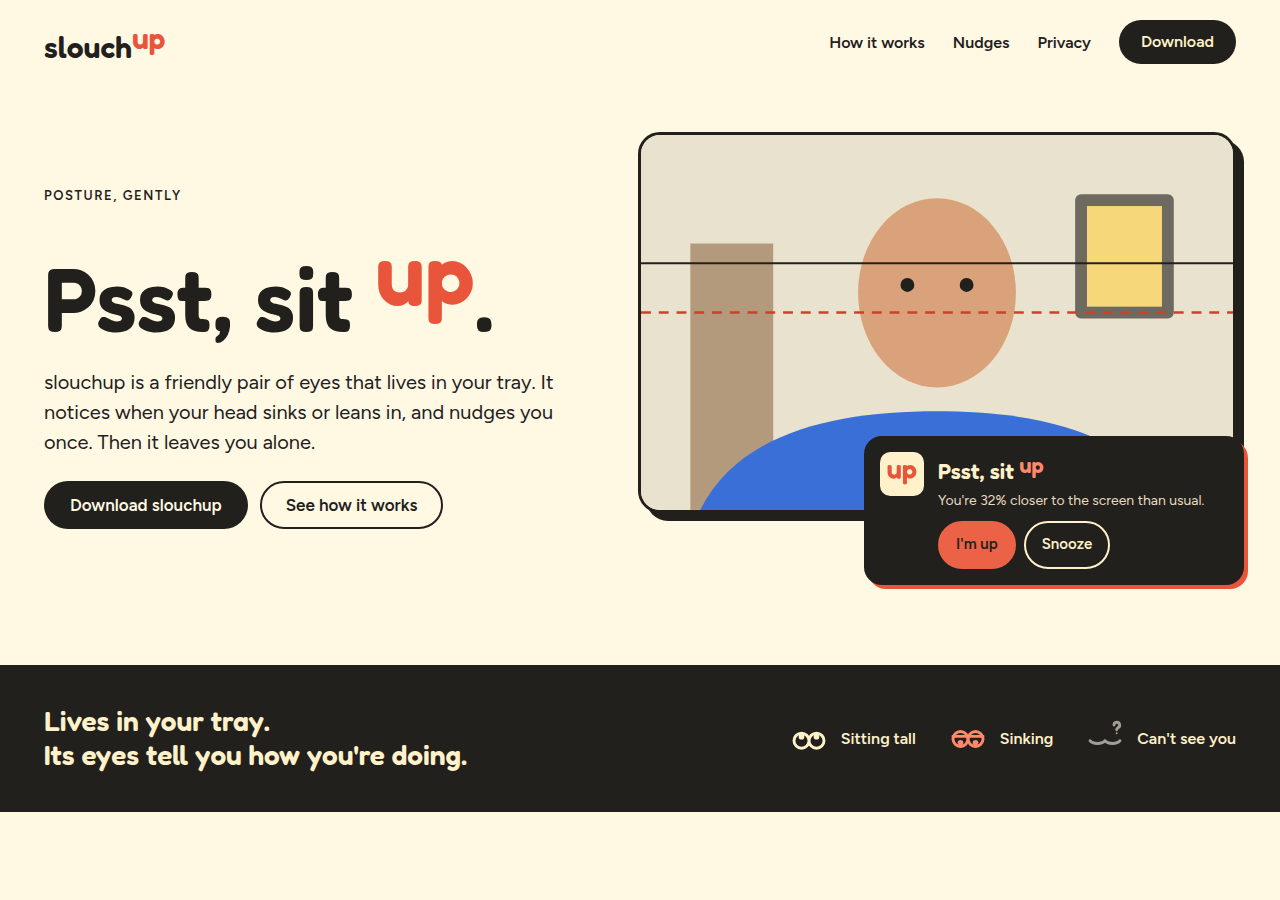
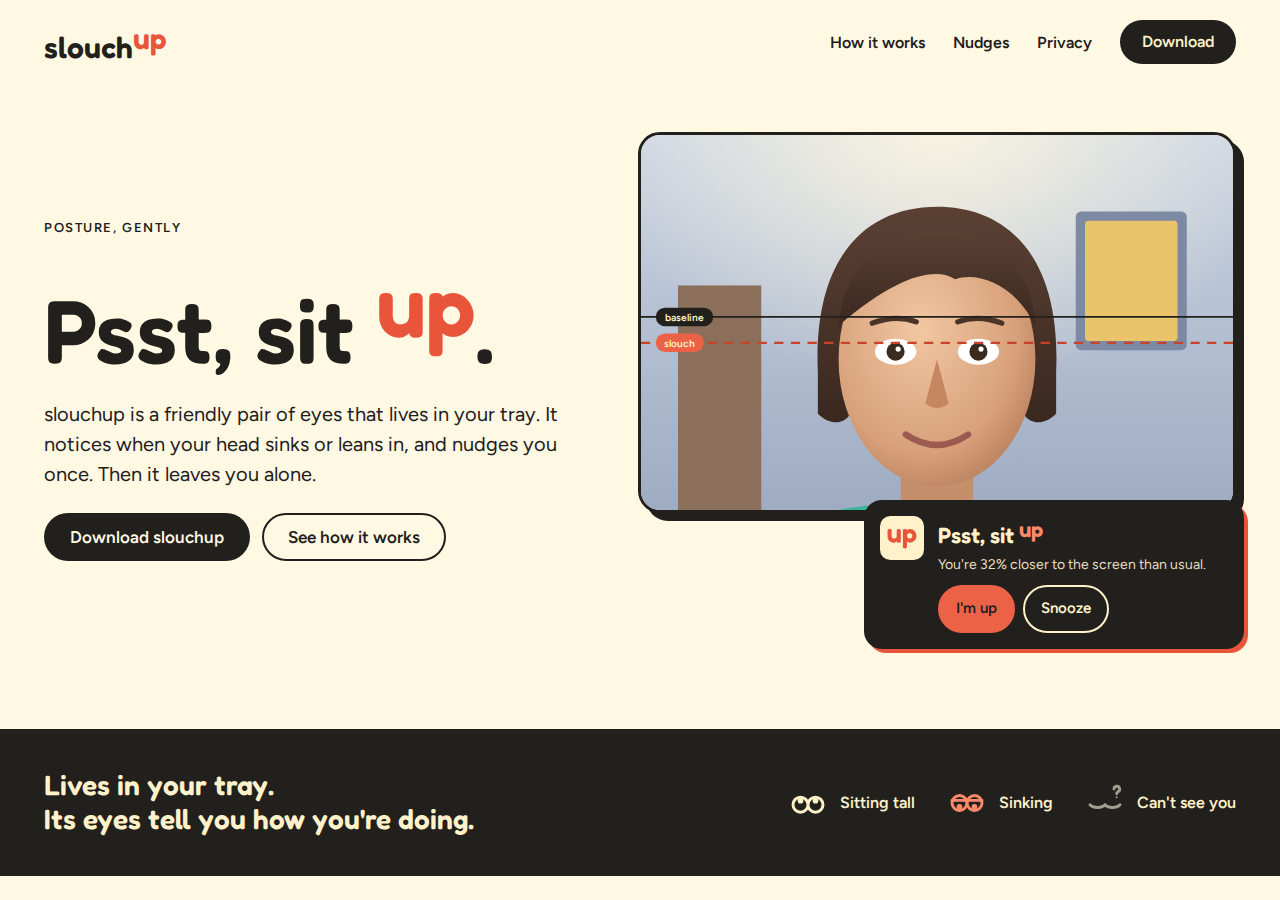
Homepage hero redrawn with the demo person
The homepage drew its own person, plainer than the one in the README screenshots.
- The hero draws the app's demo person leaning in, from the same SVG the demo uses
- Its baseline and slouch lines are labelled, as in the camera window
- The nudge overlaps the picture's bottom edge instead of the person's face

Claude-Session: https://claude.ai/code/session_018qmWg22Aba3GmdpsBF9CRo

diff --git a/www/src/brand/person.ts b/www/src/brand/person.ts
@@ -1,0 +1,20 @@
+// The app's demo person in their room, from the same drawing the README screenshots show.
+
+import drawing from "../../../crates/slouch-app/src/person.svg?raw";
+
+export type Pose = "upright" | "slump" | "lean";
+
+/** How far each pose sinks and how close it comes, as the app's demo acts them out. */
+const shapes: Record<Pose, { sink: number; scale: number }> = {
+  upright: { sink: 0, scale: 1 },
+  slump: { sink: 80, scale: 1 },
+  lean: { sink: 40, scale: 1.4 },
+};
+
+/** The eye line of the upright pose, in the drawing's 640×480 frame. */
+export const BASELINE = 234;
+
+export function person(pose: Pose): string {
+  const { sink, scale } = shapes[pose];
+  return drawing.replace("{cy}", String(240 + sink)).replace("{scale}", String(scale));
+}

diff --git a/crates/slouch-app/src/demo.rs b/crates/slouch-app/src/demo.rs
@@ -116,37 +116,15 @@ impl Shape {
     }
 }
 
+/// The person and their room, with `{cy}` and `{scale}` left for the pose. The homepage draws
+/// the same file.
+const PERSON: &str = include_str!("person.svg");
+
 fn person_svg(shape: Shape) -> String {
     let Shape { sink, scale } = shape;
-    format!(
-        r##"<svg xmlns="http://www.w3.org/2000/svg" viewBox="0 0 640 480">
-<defs>
-<linearGradient id="wall" x1="0" y1="0" x2="0" y2="1"><stop offset="0" stop-color="#cfd8e6"/><stop offset="1" stop-color="#9aa8bf"/></linearGradient>
-<radialGradient id="lamp" cx="0.5" cy="0.05" r="0.6"><stop offset="0" stop-color="#fff8e1" stop-opacity="0.9"/><stop offset="1" stop-color="#fff8e1" stop-opacity="0"/></radialGradient>
-<radialGradient id="skin" cx="0.42" cy="0.38" r="0.7"><stop offset="0" stop-color="#f1c7a2"/><stop offset="0.7" stop-color="#d7a07a"/><stop offset="1" stop-color="#b47c59"/></radialGradient>
-<radialGradient id="shirt" cx="0.5" cy="0.2" r="0.9"><stop offset="0" stop-color="#3fc9a8"/><stop offset="1" stop-color="#1d7f74"/></radialGradient>
-<linearGradient id="hair" x1="0" y1="0" x2="0" y2="1"><stop offset="0" stop-color="#5b4033"/><stop offset="1" stop-color="#3a281f"/></linearGradient>
-</defs>
-<rect width="640" height="480" fill="url(#wall)"/>
-<rect width="640" height="480" fill="url(#lamp)"/>
-<rect x="470" y="120" width="120" height="150" rx="6" fill="#7d8aa3"/><rect x="480" y="130" width="100" height="130" rx="4" fill="#e9c46a"/>
-<rect x="40" y="200" width="90" height="280" fill="#8b6f5a"/>
-<g transform="translate(320 {cy}) scale({scale}) translate(-320 -240)">
-<path d="M120 480 C130 380 210 350 320 350 C430 350 510 380 520 480 L520 640 L120 640 Z" fill="url(#shirt)"/>
-<rect x="292" y="300" width="56" height="70" rx="20" fill="#c58f6b"/>
-<path d="M228 250 C224 160 266 122 320 122 C374 122 416 160 412 250 L412 282 C402 292 390 290 386 280 L254 280 C250 290 238 292 228 282 Z" fill="url(#hair)"/>
-<ellipse cx="320" cy="240" rx="76" ry="98" fill="url(#skin)"/>
-<path d="M244 214 C250 160 284 140 320 140 C356 140 392 160 396 214 C380 182 352 172 334 178 C318 168 288 176 244 214 Z" fill="url(#hair)"/>
-<path d="M270 212 Q288 205 304 211" stroke="#4a3328" stroke-width="4" fill="none" stroke-linecap="round"/>
-<path d="M336 211 Q352 205 370 212" stroke="#4a3328" stroke-width="4" fill="none" stroke-linecap="round"/>
-<ellipse cx="288" cy="234" rx="16" ry="10" fill="#fff"/><ellipse cx="352" cy="234" rx="16" ry="10" fill="#fff"/>
-<circle cx="288" cy="234" r="7" fill="#3b2a1e"/><circle cx="352" cy="234" r="7" fill="#3b2a1e"/>
-<circle cx="290" cy="232" r="2" fill="#fff"/><circle cx="354" cy="232" r="2" fill="#fff"/>
-<path d="M320 240 L311 274 Q320 281 329 274 Z" fill="#c4875f"/>
-<path d="M296 298 Q320 314 344 298" stroke="#9c5a50" stroke-width="5" fill="none" stroke-linecap="round"/>
-</g></svg>"##,
-        cy = 240.0 + sink,
-    )
+    PERSON
+        .replace("{cy}", &(240.0 + sink).to_string())
+        .replace("{scale}", &scale.to_string())
 }
 
 #[cfg(test)]
